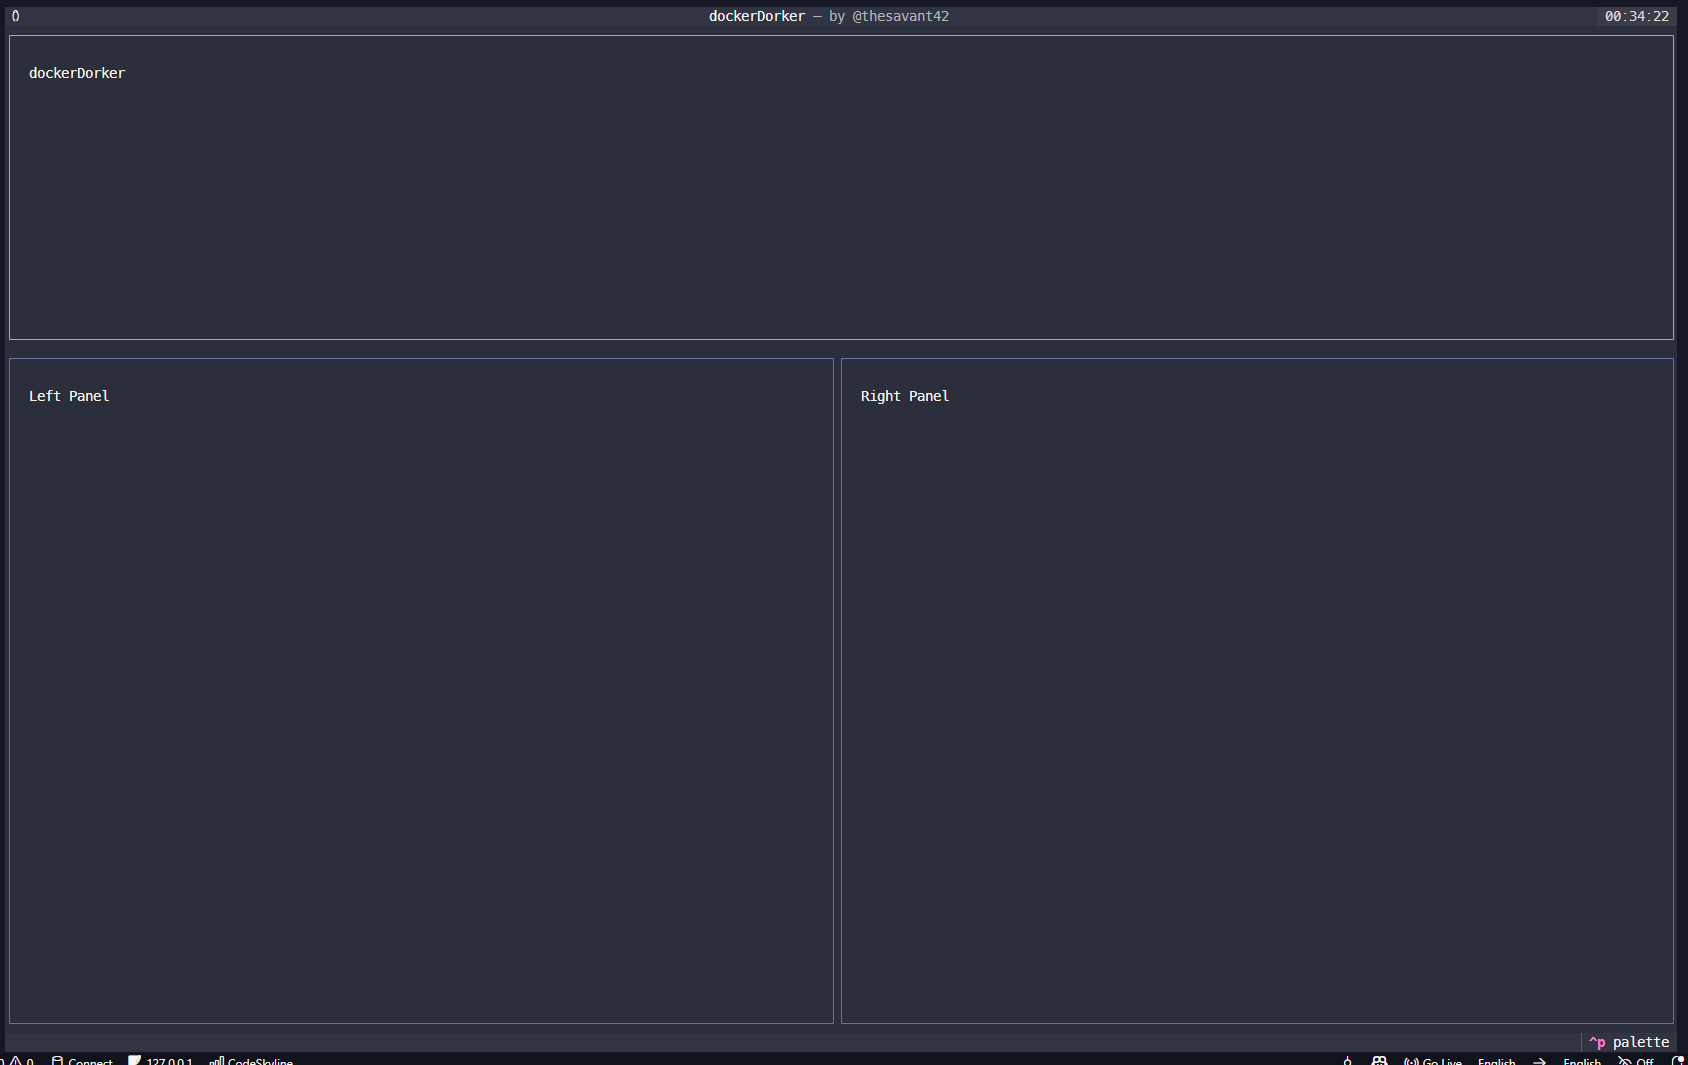
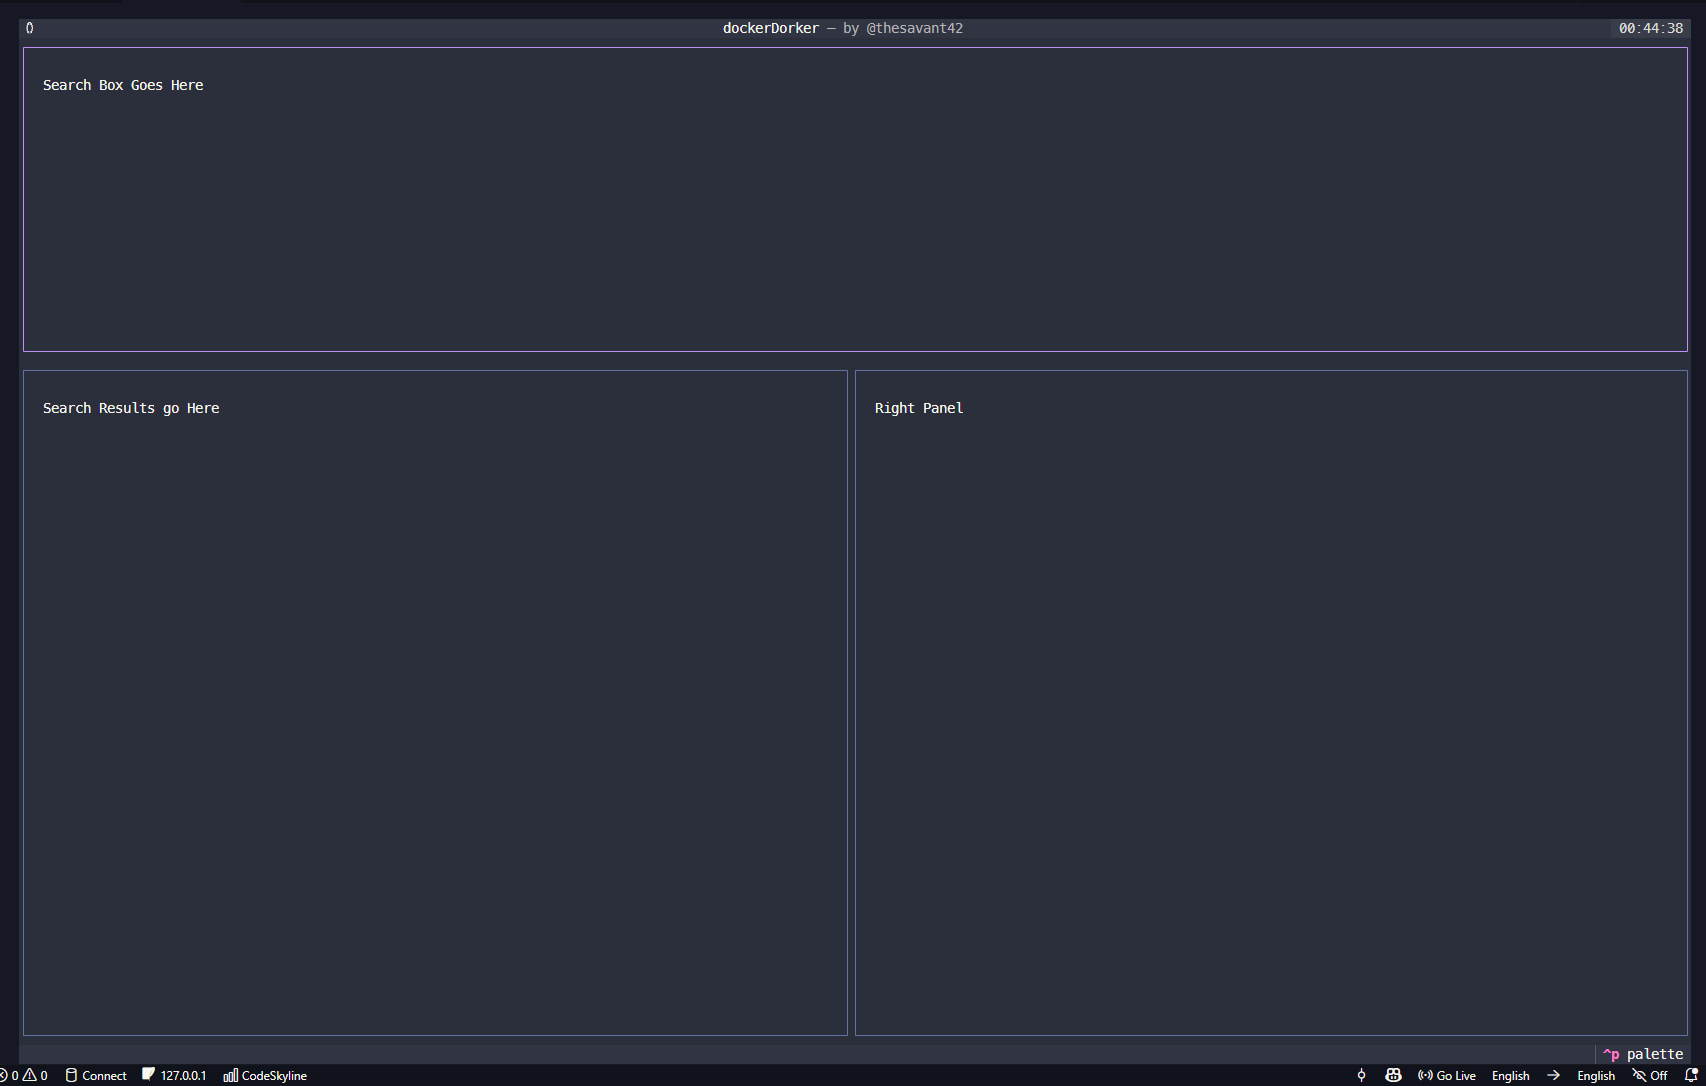
task1 add search box to TUI

diff --git a/app/tui/app.py b/app/tui/app.py
@@ -38,9 +38,9 @@ class DockerDorkerApp(App):
     def compose(self) -> ComposeResult:
         """Compose the UI layout."""
         yield Header(show_clock=True)
-        yield TopPanel("dockerDorker", id="top-panel")
+        yield TopPanel("Search Box Goes Here", id="top-panel")
         with Horizontal(id="main-content"):
-            yield LeftPanel("Left Panel", id="left-panel")
+            yield LeftPanel("Search Results go Here", id="left-panel")
             yield RightPanel("Right Panel", id="right-panel")
         yield Footer()
 

diff --git a/plans/task1.MD b/plans/task1.MD
@@ -1,0 +1,78 @@
+## USER STORY
+
+I want to find containers related to a topic, "disney" in this example.
+
+### Start
+- I open the app and see:
+	1. Info Panel, right side: A Text Input widget: Description: "search Docker Hub"
+		- Routes to the `/search.data` [Docker Hub passthrough route](http://localhost:8000/search.data?q=disney)
+    2. [A table of recently assesed containers](http://localhost:8000/history) in the LEFT PANEL
+	http://127.0.0.1:8000/history?page=1&page_size=30&sortby=scraped_at&order=desc
+
+### search.data
+- I search the recents, and, finding 0 matches, opt for #3, `/search.data` [here](http://localhost:8000/search.data?q=disney)
+	- Each result is for 1 respository in includes the namespace/owner of the repository.
+	- If the namespace, repository name, or description seem worth investigating I will want to dig in on a repository.
+	- To view files or folders we need to get the [TAGs](###Tags) available in a repository via the `/repositories/{namespace}/{repo}/tags` API.
+
+---
+
+## Task 1: Add Search box
+
+- This is the base of the TUI. The Textual `header` widget is present on the same row as the title text "dockerDocker by @thesavant42"
+- Beneath the Header is the `Top-Panel`
+- Beneath the `Top-Panel` are the `Left Panel` and `Right Panel`.
+
+![TUI frame](screenshot.png)
+
+
+Task 1. Need to include a textual "text" type Input Widget in the `TOP PANEL`, that submits to `/search.data`
+    - `http://127.0.0.1:8000/search.data?q=disney&page=1&sortby=updated_at&order=desc`
+
+
+- Results Should Display in the `LEFT PANEL`:
+    - `dataTable` with "row" cursor
+    - Text labels must NOT wrap or break tables
+    - **Un-truncated versions of each field to be displayed in `TOP PANEL`**
+```bash
+
+Total: 204 results (page 1)
+
+SLUG                                     FAV  PULLS  CREATED      UPDATED      DESCRIPTION
+----------------------------------------------------------------------------------------------------
+ebusinessdocker/disney                   0    285    04-25-2017   11-02-2017   
+nlds90/disney                            0    162    05-20-2015   10-16-2015   
+thangadurai90/disney                     0    49     03-18-2019   03-20-2019   Sample test for docker compose
+tanaebousfiha/disney                     0    45     10-14-2025   10-14-2025   
+msmengr/disney                           0    42     03-24-2025   04-21-2025   
+dematrix/disney                          0    42     03-24-2025   03-24-2025   Deo test
+springheroku/disney                      0    32     10-03-2022   10-12-2022   
+markcataluna/disney                      0    32     04-21-2025   04-21-2025   test lab
+kodujmy/disney                           0    31     10-12-2022   10-01-2023   
+surajpjoshi/disney                       0    24     11-09-2023   11-09-2023   
+v3yy/disney                              0    21     09-16-2024   09-16-2024   
+sundar21/disney                          0    18     12-07-2021   12-07-2021   
+chaitanyagutti16/disney                  0    18     01-27-2024   01-27-2024   
+wonjongg/disney                          0    12     05-20-2022   05-20-2022   
+hexletsource/disney-userbase             0    254    08-11-2015   08-24-2015   Disney Userbase 
+bennycooly/disney-scraper                0    100K+  10-24-2020   07-22-2022   
+ofcommunity/rorpage-openfaas-disney-display-disney-display 0    10K+   06-15-2018   08-01-2018   
+disneystreaming/pg2k4j                   0    100K+  10-27-2018   06-03-2019   A tool for publishing changes made on a Postgresql database to an Amazon Kinesis Stream
+aciliadevops/disney-local-php            0    5.1K   06-26-2023   01-19-2026   
+aciliadevops/disney-local-php-fpm        0    6.1K   06-26-2023   01-19-2026   
+aciliadevops/disney-local-web            0    4.1K   06-26-2023   01-19-2026   
+gberg927/disney-height-requirements      0    10K+   11-23-2019   03-04-2020   
+dpreardon/disneyreservation              1    223    11-09-2018   02-27-2019   Check the availability of certain restaurants at Walt Disney World.
+dayaron/disneyworld-metrics-datadog      0    255    03-28-2024   05-23-2024   Docker Image that sends Disney World Wait Times to Datadog as custom metrics.
+aciliadevops/disney-local-node           0    1.2K   11-28-2024   01-19-2026   
+mahkumazahn/disney-reservation-checker   0    60     04-25-2021   04-25-2021   Scrapes for Disney Restaurant Reservations 
+aciliadevops/disney-local-php-fpm-8.3    0    993    11-19-2025   01-19-2026   
+pessoalize/pessoalize-disney-admin-v3    0    3.9K   01-16-2022   09-13-2023   
+aciliadevops/disney-local-php-8.3        0    525    11-19-2025   01-19-2026   
+disneyresolve/vuln-container             0    1.6K   04-25-2023   04-25-2023   Vulnerable Container for demo purpose
+```
+
+
+[Continued in next task](/plans/userstory.MD)   
+
+---

diff --git a/plans/userstory.MD b/plans/userstory.MD
@@ -2,16 +2,34 @@
 
 I want to find containers related to a topic, "disney" in this example.
 
+### Start
+- I open the app and see:
+	1. Info Panel, right side: A Text Input widget: Description: "search Docker Hub"
+		- Routes to the `/search.data` [Docker Hub passthrough route](http://localhost:8000/search.data?q=disney)
+    2. [A table of recently assesed containers](http://localhost:8000/history) in the LEFT PANEL
+	http://127.0.0.1:8000/history?page=1&page_size=30&sortby=scraped_at&order=desc
+
+### search.data
+- I search the recents, and, finding 0 matches, opt for #3, `/search.data` [here](http://localhost:8000/search.data?q=disney)
+	- Each result is for 1 respository in includes the namespace/owner of the repository.
+	- If the namespace, repository name, or description seem worth investigating I will want to dig in on a repository.
+	- To view files or folders we need to get the [TAGs](###Tags) available in a repository via the `/repositories/{namespace}/{repo}/tags` API.
+
+---
+
+Task 1: Add Search box
 
 - This is the base of the TUI. The Textual `header` widget is present on the same row as the title text "dockerDocker by @thesavant42"
 - Beneath the Header is the `Info Panel`. It is in the top portion of the display, and contains the text "dockerDorcker" in white type
-- Beneath the `Info Panel` are the `Left` and `Right` panels.
+- Beneath the `Info Panel` are the `Left Panel` and `Right Panel`.
 
 ![TUI frame](screenshot.png)
 
 
 Task 1. Need to include a textual "text" type Input Widget in the `TOP PANEL`, that submits to `/search.data`
     - `http://127.0.0.1:8000/search.data?q=disney&page=1&sortby=updated_at&order=desc`
+
+
 - Results Should Display in the `LEFT PANEL`:
     - `dataTable` with "row" cursor
     - Text labels must NOT wrap or break tables
@@ -60,18 +78,6 @@ disneyresolve/vuln-container             0    1.6K   04-25-2023   04-25-2023   V
 
 ---
 
-### Start
-- I open the app and see:
-	1. Info Panel, right side: A Text Input widget: Description: "search Docker Hub"
-		- Routes to the `/search.data` [Docker Hub passthrough route](http://localhost:8000/search.data?q=disney)
-    2. [A table of recently assesed containers](http://localhost:8000/history) in the LEFT PANEL
-	http://127.0.0.1:8000/history?page=1&page_size=30&sortby=scraped_at&order=desc
-
-### search.data
-- I search the recents, and, finding 0 matches, opt for #3, `/search.data` [here](http://localhost:8000/search.data?q=disney)
-	- Each result is for 1 respository in includes the namespace/owner of the repository.
-	- If the namespace, repository name, or description seem worth investigating I will want to dig in on a repository.
-	- To view files or folders we need to get the [TAGs](###Tags) available in a repository via the `/repositories/{namespace}/{repo}/tags` API.
 
 ### Tags
 - `/repositories/{namespace}/{repo}/tags?page=NaN&page_size=NaN&ordering=last_updated`
